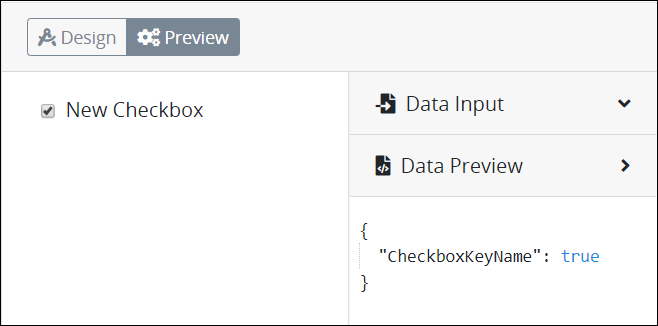
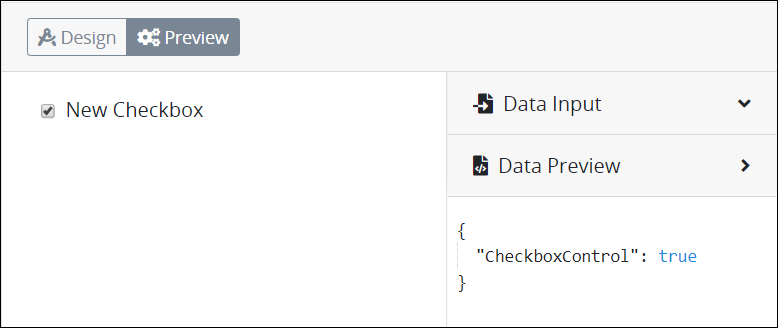
GitBook: [processmaker] 12 pages and 2 assets modified

diff --git a/designing-processes/design-forms/screens-builder/control-descriptions/record-list-control-settings.md b/designing-processes/design-forms/screens-builder/control-descriptions/record-list-control-settings.md
@@ -99,23 +99,14 @@ Click the control to view its settings in the **Variable** panel that is on the 
 
 * **Key Name:** Enter a unique name that represents this control's value. Use the **Key Name** value in the following ways:
 
-  * Reference this control by its **Key Name** setting's value. The **Data Preview** panel in [Preview mode](../screens-builder-modes.md#preview-mode) corresponds the Record List control's records with that Record List control's **Key Name** value.
-  * Reference this control's value in a different Screens Builder control. To do so, use mustache syntax and reference this control's **Key Name** value in the target control. Example: `My full name is {{FullName}}`.
+  * Reference this control by its **Key Name** setting's value.
+  * Reference this control's value in a different Screens Builder control. To do so, use mustache syntax and reference this control's **Key Name** value in the target control. Example: `{{RecordListControl}}`.
   * Reference this value in [**Visibility Rule** setting expressions](expression-syntax-components-for-show-if-control-settings.md).
 
   This is a required setting.
 
-* **Data Type:** Select one of the following options to indicate the data type for the contents of this this control:
-
-### Design Panel Settings
-
-Click the control to view its settings in the **Design** panel that is on the right-side of the Screens Builder canvas. Below are settings for the Record List control in the **Variable** panel:
-
-* **List Name:** Enter the unique internal data name of the control that only the Process Owner views at design time. This is a required setting. Use the **List Name** value for this control to reference it in [**Visibility Rule** setting expressions](expression-syntax-components-for-show-if-control-settings.md).
-* **List Label:** Enter the field label text that displays. **New Record List** is the default value.
 * **Editable?:** Select to indicate that the record that the form user enters can be edited. Otherwise, deselect to indicate that the form user's record cannot be changed. This setting is not selected by default.
-* **Fields List:** Specify the list of options the Record List records from the form user. Each option in the **Fields List** setting references a control on a secondary ProcessMaker Screen page that uses the same **Field Name** value as entered into the **Value** parameter. These values must match for the Record List control to correspond with each control in the secondary ProcessMaker Screen page. See the [example](record-list-control-settings.md#example). The following message displays in Preview mode when not all the **Value** parameters match with a control's **Field Name** value on the secondary page: **There is no records in this list or the data is invalid.**
-
+* **Fields List:** Specify the list of options the Record List records from the form user. Each option in the **Fields List** setting references a control on a secondary ProcessMaker Screen page that uses the same **Field Name** value as entered into the **Value** parameter. These values must match for the Record List control to correspond with each control in the secondary ProcessMaker Screen page. See the [example](record-list-control-settings.md#example). The following message displays in Preview mode when not all the **Value** parameters match with a control's **Field Name** value on the secondary page: **There is no records in this list or the data is invalid.**  
   Switch the **Show in Json Format** toggle key to display these settings in JSON.   
 
   ![](../../../../.gitbook/assets/fields-list-option-record-list-control-screens-builder-processes.png)
@@ -137,6 +128,12 @@ Click the control to view its settings in the **Design** panel that is on the ri
   4. Click **OK**. The field item displays below the existing items in **Fields List**.
 
 * **Record Form:** Select from which ProcessMaker Screen page to add/edit records. The page that records the submitted records cannot be on the same page as the Record List control. The following message displays in Preview mode when the Record List control references the same page the control is placed: **The add/edit form referencing our own form which is not allowed.**
+
+### Design Panel Settings
+
+Click the control to view its settings in the **Design** panel that is on the right-side of the Screens Builder canvas. Below are settings for the Record List control in the **Variable** panel:
+
+* **List Label:** Enter the field label text that displays. **New Record List** is the default value.
 * **Element Background Color:** Select to specify the background color of this control.
 * **Text Color:** Select to specify the text color that displays in this control.
 * **Visibility Rule:** Specify an expression that indicates the condition\(s\) under which this control displays. See [Expression Syntax Components for "Visibility Rule" Control Settings](expression-syntax-components-for-show-if-control-settings.md#expression-syntax-components-for-show-if-control-settings). If this setting does not have an expression, then this control displays by default.

diff --git a/designing-processes/design-forms/screens-builder/control-descriptions/submit-button-control-settings.md b/designing-processes/design-forms/screens-builder/control-descriptions/submit-button-control-settings.md
@@ -61,18 +61,28 @@ Your user account or group membership must have the following permissions to edi
 See the ProcessMaker [Screens](../../../../processmaker-administration/permission-descriptions-for-users-and-groups.md#screens) permissions or ask your ProcessMaker Administrator for assistance.
 {% endhint %}
 
-Click the control to view its settings in the **Design** panel that is on the right-side of the Screens Builder canvas. Below are settings for the Submit control:
+The Submit control has the following panels that contain settings:
 
-* **Field Label:** Enter the field label text that displays. **New Submit** is the default value.
-* **Variable Name:** Enter a unique name that represents this control's value. Use the **Variable Name** value in the following ways:
+* \*\*\*\*[**Variable** panel](submit-button-control-settings.md#variable-panel-settings)
+* \*\*\*\*[**Design** panel](submit-button-control-settings.md#design-panel-settings)
 
-  * Reference this control by its **Variable Name** setting's value.
-  * Reference this control's value in a different Screens Builder control. To do so, use mustache syntax and reference this control's **Variable Name** value in the target control. Example: `My full name is {{FullName}}`.
+### Variable Panel Settings
+
+Click the control to view its settings in the **Variable** panel that is on the right-side of the Screens Builder canvas. Below are settings for the Submit control in the **Variable** panel:
+
+* **Key Name:** Enter a unique name that represents this control's value. Use the **Key Name** value in the following ways:
+  * Reference this control by its **Key Name** setting's value. The **Data Preview** panel in [Preview mode](../screens-builder-modes.md#preview-mode) corresponds the Submit control's **Key Name** value. In the example below, `SubmitControl` is the **Key Name** setting's value when the button is clicked. ![](../../../../.gitbook/assets/submit-preview-screens-builder-processes.png) 
+  * Reference this control's value in a different Screens Builder control. To do so, use mustache syntax and reference this control's **Key Name** value in the target control. Example: `{{SubmitControl}}`.
   * Reference this value in [**Visibility Rule** setting expressions](expression-syntax-components-for-show-if-control-settings.md).
 
-  This is a required setting.
+    This is a required setting.
+* **Field Value:** Enter any alphanumeric value that the Submit control sends when the form user selects the button. This value can be evaluated in a [**Visibility Rule** setting expression](expression-syntax-components-for-show-if-control-settings.md) or in a [Sequence Flow element's conditions to trigger](../../../process-design/model-your-process/the-quick-toolbar.md#configure-an-outgoing-sequence-flow-element-from-an-exclusive-gateway-or-inclusive-gateway-element).
 
-* **Field Value:** Enter any alphanumeric value that the Submit control sends when the form user selects the button. This value can be evaluated in a rule.
+### Design Panel Settings
+
+Click the control to view its settings in the **Design** panel that is on the right-side of the Screens Builder canvas. Below are settings for the Submit control in the **Design** panel:
+
+* **Field Label:** Enter the field label text that displays. **New Submit** is the default value.
 * **Variant:** Select the style for the Submit control. The style changes the control's appearance but otherwise has no functional difference. Select from the following options:
   * **Primary:** Blue-colored background with white-colored **Field Label** text. Set as the default.
   * **Secondary:** Gray-colored background with white-colored **Field Label** text.

diff --git a/designing-processes/design-forms/screens-builder/control-descriptions/image-control-settings.md b/designing-processes/design-forms/screens-builder/control-descriptions/image-control-settings.md
@@ -55,10 +55,29 @@ Your user account or group membership must have the following permissions to edi
 See the ProcessMaker [Screens](../../../../processmaker-administration/permission-descriptions-for-users-and-groups.md#screens) permissions or ask your ProcessMaker Administrator for assistance.
 {% endhint %}
 
-Click the control to view its settings in the **Design** panel that is on the right-side of the Screens Builder canvas. Below are settings for the Image control:
+The Image control has the following panels that contain settings:
 
+* \*\*\*\*[**Variable** panel](image-control-settings.md#variable-panel-settings)
+* \*\*\*\*[**Design** panel](image-control-settings.md#design-panel-settings)
+
+### Variable Panel Settings
+
+Click the control to view its settings in the **Variable** panel that is on the right-side of the Screens Builder canvas. Below are settings for the Image control in the **Variable** panel:
+
+* **Id:** Enter the unique identifier that identifies the image in the ProcessMaker Screen. The **Id** value must be alphanumeric.
+* **Key Name:** Enter a unique name that represents this control's value. Use the **Key Name** value in the following ways:
+  * Reference this control by its **Key Name** setting's value.
+  * Reference this control's value in a different Screens Builder control. To do so, use mustache syntax and reference this control's **Key Name** value in the target control. Example: `{{ImageControl}}`.
+  * Reference this value in [**Visibility Rule** setting expressions](expression-syntax-components-for-show-if-control-settings.md).
+
+    This is a required setting.
 * **Upload Image:** Click the **Upload Image** button to browse for the PNG, GIF, or JPG file type image to upload to the Image control.
 * **Preview:** This setting displays a preview of the uploaded image.
+
+### Design Panel Settings
+
+Click the control to view its settings in the **Design** panel that is on the right-side of the Screens Builder canvas. Below are settings for the Image control in the **Design** panel:
+
 * **Width:** Specify the width of the uploaded image in pixels. If the **Height** setting has no value, the Image control adjust the uploaded image to the **Width** setting value.
 * **Height:** Specify the width of the uploaded image in pixels. If the **Width** setting has no value, the Image control adjust the uploaded image to the **Height** setting value.
 * **Visibility Rule:** Enter an expression that indicates the condition\(s\) under which this control displays. See [Expression Syntax Components for "Visibility Rule" Control Settings](expression-syntax-components-for-show-if-control-settings.md#expression-syntax-components-for-show-if-control-settings). If this setting does not have an expression, then this control displays by default.

diff --git a/designing-processes/design-forms/screens-builder/control-descriptions/file-download-control-settings.md b/designing-processes/design-forms/screens-builder/control-descriptions/file-download-control-settings.md
@@ -56,10 +56,22 @@ Your user account or group membership must have the following permissions to edi
 See the ProcessMaker [Screens](../../../../processmaker-administration/permission-descriptions-for-users-and-groups.md#screens) permissions or ask your ProcessMaker Administrator for assistance.
 {% endhint %}
 
-Click the control to view its settings in the **Design** panel that is on the right-side of the Screens Builder canvas. Below are settings for the File Download control:
+The File Download control has the following panels that contain settings:
+
+* \*\*\*\*[**Variable** panel](file-download-control-settings.md#variable-panel-settings)
+* \*\*\*\*[**Design** panel](file-download-control-settings.md#design-panel-settings)
+
+### Variable Panel Settings
+
+Click the control to view its settings in the **Variable** panel that is on the right-side of the Screens Builder canvas. Below are settings for the File Download control in the **Variable** panel:
+
+* **Download Name:** Enter the name associated with the downloaded file\(s\). This name can be referenced from a previous step in the Process. This setting has no default value.
+
+### Design Panel Settings
+
+Click the control to view its settings in the **Design** panel that is on the right-side of the Screens Builder canvas. Below are settings for the File Download control in the **Design** panel:
 
 * **Text Label:** Enter the field label text that displays. **New File Download** is the default value.
-* **Download Name:** Enter the name associated with the downloaded file\(s\). This name can be referenced from a previous step in the Process. This setting has no default value.
 * **Visibility Rule:** Enter an expression that indicates the condition\(s\) under which this control displays. See [Expression Syntax Components for "Visibility Rule" Control Settings](expression-syntax-components-for-show-if-control-settings.md#expression-syntax-components-for-show-if-control-settings). If this setting does not have an expression, then this control displays by default.
 * **CSS Selector Name:** Enter the value to represent this control in custom CSS syntax when in [Custom CSS](../add-custom-css-to-a-screen.md#add-custom-css-to-a-processmaker-screen) mode. As a best practice, use the same **CSS Selector Name** value on different controls of the same type to apply the same custom CSS style to all those controls.
 

diff --git a/designing-processes/design-forms/screens-builder/control-descriptions/file-upload-control-settings.md b/designing-processes/design-forms/screens-builder/control-descriptions/file-upload-control-settings.md
@@ -60,10 +60,22 @@ Your user account or group membership must have the following permissions to edi
 See the ProcessMaker [Screens](../../../../processmaker-administration/permission-descriptions-for-users-and-groups.md#screens) permissions or ask your ProcessMaker Administrator for assistance.
 {% endhint %}
 
-Click the control to view its settings in the **Design** panel that is on the right-side of the Screens Builder canvas. Below are settings for the File Upload control:
+The File Upload control has the following panels that contain settings:
+
+* \*\*\*\*[**Variable** panel](file-upload-control-settings.md#variable-panel-settings)
+* \*\*\*\*[**Design** panel](file-upload-control-settings.md#design-panel-settings)
+
+### Variable Panel Settings
+
+Click the control to view its settings in the **Variable** panel that is on the right-side of the Screens Builder canvas. Below are settings for the File Upload control in the **Variable** panel:
+
+* **Upload Name:** Enter the unique name associated with the uploaded file\(s\). This name can be referenced in a later step in the Process. This setting has no default value.
+
+### Design Panel Settings
+
+Click the control to view its settings in the **Design** panel that is on the right-side of the Screens Builder canvas. Below are settings for the File Upload control in the **Design** panel:
 
 * **Text Label:** Enter the field label text that displays. **New File Upload** is the default value.
-* **Upload Name:** Enter the unique name associated with the uploaded file\(s\). This name can be referenced in a later step in the Process. This setting has no default value.
 * **Visibility Rule:** Enter an expression that indicates the condition\(s\) under which this control displays. See [Expression Syntax Components for "Visibility Rule" Control Settings](expression-syntax-components-for-show-if-control-settings.md#expression-syntax-components-for-show-if-control-settings). If this setting does not have an expression, then this control displays by default.
 * **CSS Selector Name:** Enter the value to represent this control in custom CSS syntax when in [Custom CSS](../add-custom-css-to-a-screen.md#add-custom-css-to-a-processmaker-screen) mode. As a best practice, use the same **CSS Selector Name** value on different controls of the same type to apply the same custom CSS style to all those controls.
 

diff --git a/designing-processes/design-forms/screens-builder/control-descriptions/date-picker-control-settings.md b/designing-processes/design-forms/screens-builder/control-descriptions/date-picker-control-settings.md
@@ -72,8 +72,8 @@ Click the control to view its settings in the **Variable** panel that is on the 
 
 * **Key Name:** Enter a unique name that represents this control's value. Use the **Key Name** value in the following ways:
 
-  * Reference this control by its **Key Name** setting's value. The **Data Preview** panel in [Preview mode](../screens-builder-modes.md#preview-mode) corresponds with the Date Picker control's entered datetime with that Date Picker control's **Key Name** value. ![](../../../../.gitbook/assets/date-picker-preview-screens-builder-processes.png) 
-  * Reference this control's value in a different Screens Builder control. To do so, use mustache syntax and reference this control's **Key Name** value in the target control. Example: `My full name is {{FullName}}`.
+  * Reference this control by its **Key Name** setting's value. The **Data Preview** panel in [Preview mode](../screens-builder-modes.md#preview-mode) corresponds with the Date Picker control's entered datetime with that Date Picker control's **Key Name** value. In the example below, `DatePickerControl` is the **Key Name** setting's value. ![](../../../../.gitbook/assets/date-picker-preview-screens-builder-processes.png) 
+  * Reference this control's value in a different Screens Builder control. To do so, use mustache syntax and reference this control's **Key Name** value in the target control. Example: `{{DatePickerControl}}`.
   * Reference this value in [**Visibility Rule** setting expressions](expression-syntax-components-for-show-if-control-settings.md).
 
   This is a required setting.

diff --git a/designing-processes/design-forms/screens-builder/control-descriptions/line-input-control-settings.md b/designing-processes/design-forms/screens-builder/control-descriptions/line-input-control-settings.md
@@ -72,8 +72,8 @@ Click the control to view its settings in the **Variable** panel that is on the 
 
 * **Key Name:** Enter a unique name that represents this control's value. Use the **Key Name** value in the following ways:
 
-  * Reference this control by its **Key Name** setting's value. The **Data Preview** panel in [Preview mode](../screens-builder-modes.md#preview-mode) corresponds the Line Inputs control's textual content with that Line Inputs control's **Key Name** value. ![](../../../../.gitbook/assets/line-inputs-preview-screens-builder-processes.png) 
-  * Reference this control's value in a different Screens Builder control. To do so, use mustache syntax and reference this control's **Key Name** value in the target control. Example: `My full name is {{FullName}}`.
+  * Reference this control by its **Key Name** setting's value. The **Data Preview** panel in [Preview mode](../screens-builder-modes.md#preview-mode) corresponds the Line Inputs control's textual content with that Line Inputs control's **Key Name** value. In the example below, `LineInputsControl` is the **Key Name** setting's value. ![](../../../../.gitbook/assets/line-inputs-preview-screens-builder-processes.png) 
+  * Reference this control's value in a different Screens Builder control. To do so, use mustache syntax and reference this control's **Key Name** value in the target control. Example: `{{LineInputsControl}}`.
   * Reference this value in [**Visibility Rule** setting expressions](expression-syntax-components-for-show-if-control-settings.md).
 
   This is a required setting.

diff --git a/designing-processes/design-forms/screens-builder/control-descriptions/radio-group-control-settings.md b/designing-processes/design-forms/screens-builder/control-descriptions/radio-group-control-settings.md
@@ -72,8 +72,8 @@ Click the control to view its settings in the **Variable** panel that is on the 
 
 * **Key Name:** Enter a unique name that represents this control's value. Use the **Key Name** value in the following ways:
 
-  * Reference this control by its **Key Name** setting's value. The **Data Preview** panel in [Preview mode](../screens-builder-modes.md#preview-mode) corresponds the Radio Group control's selected option with that Radio Group control's **Key Name** value. ![](../../../../.gitbook/assets/radio-group-preview-screens-builder-processes.png) 
-  * Reference this control's value in a different Screens Builder control. To do so, use mustache syntax and reference this control's **Key Name** value in the target control. Example: `My full name is {{FullName}}`.
+  * Reference this control by its **Key Name** setting's value. The **Data Preview** panel in [Preview mode](../screens-builder-modes.md#preview-mode) corresponds the Radio Group control's selected option with that Radio Group control's **Key Name** value. In the example below, `RadioGroupControl` is the **Key Name** setting's value. ![](../../../../.gitbook/assets/radio-group-preview-screens-builder-processes.png) 
+  * Reference this control's value in a different Screens Builder control. To do so, use mustache syntax and reference this control's **Key Name** value in the target control. Example: `{{RadioGroupControl}}`.
   * Reference this value in [**Visibility Rule** setting expressions](expression-syntax-components-for-show-if-control-settings.md).
 
   This is a required setting.

diff --git a/designing-processes/design-forms/screens-builder/control-descriptions/textarea-control-settings.md b/designing-processes/design-forms/screens-builder/control-descriptions/textarea-control-settings.md
@@ -72,8 +72,8 @@ Click the control to view its settings in the **Variable** panel that is on the 
 
 * **Key Name:** Enter a unique name that represents this control's value. Use the **Key Name** value in the following ways:
 
-  * Reference this control by its **Key Name** setting's value. The **Data Preview** panel in [Preview mode](../screens-builder-modes.md#preview-mode) corresponds the Textarea control's textual content with that Textarea control's **Key Name** value. ![](../../../../.gitbook/assets/textarea-preview-screens-builder-processes.png) 
-  * Reference this control's value in a different Screens Builder control. To do so, use mustache syntax and reference this control's **Key Name** value in the target control. Example: `My full name is {{FullName}}`.
+  * Reference this control by its **Key Name** setting's value. The **Data Preview** panel in [Preview mode](../screens-builder-modes.md#preview-mode) corresponds the Textarea control's textual content with that Textarea control's **Key Name** value. In the example below, `TextareaControl` is the **Key Name** setting's value. ![](../../../../.gitbook/assets/textarea-preview-screens-builder-processes.png) 
+  * Reference this control's value in a different Screens Builder control. To do so, use mustache syntax and reference this control's **Key Name** value in the target control. Example: `{{TextareaControl}}`.
   * Reference this value in [**Visibility Rule** setting expressions](expression-syntax-components-for-show-if-control-settings.md).
 
   This is a required setting.

diff --git a/designing-processes/design-forms/screens-builder/control-descriptions/select-control-settings.md b/designing-processes/design-forms/screens-builder/control-descriptions/select-control-settings.md
@@ -70,8 +70,8 @@ Click the control to view its settings in the **Variable** panel that is on the 
 
 * **Key Name:** Enter a unique name that represents this control's value. Use the **Key Name** value in the following ways:
 
-  * Reference this control by its **Key Name** setting's value. The **Data Preview** panel in [Preview mode](../screens-builder-modes.md#preview-mode) corresponds the Select control's selected option with that Select control's **Key Name** value. ![](../../../../.gitbook/assets/select-preview-screens-builder-processes.png) 
-  * Reference this control's value in a different Screens Builder control. To do so, use mustache syntax and reference this control's **Key Name** value in the target control. Example: `My full name is {{FullName}}`.
+  * Reference this control by its **Key Name** setting's value. The **Data Preview** panel in [Preview mode](../screens-builder-modes.md#preview-mode) corresponds the Select control's selected option with that Select control's **Key Name** value. In the example below, `SelectControl` is the **Key Name** setting's value. ![](../../../../.gitbook/assets/select-preview-screens-builder-processes.png) 
+  * Reference this control's value in a different Screens Builder control. To do so, use mustache syntax and reference this control's **Key Name** value in the target control. Example: `{{SelectControl}}`.
   * Reference this value in [**Visibility Rule** setting expressions](expression-syntax-components-for-show-if-control-settings.md).
 
   This is a required setting.

diff --git a/designing-processes/design-forms/screens-builder/control-descriptions/checkbox-control-settings.md b/designing-processes/design-forms/screens-builder/control-descriptions/checkbox-control-settings.md
@@ -75,7 +75,7 @@ Click the control to view its settings in the **Variable** panel that is on the 
   * Reference this control by its **Variable Name** setting's value. The **Data Preview** panel in [Preview mode](../screens-builder-modes.md#preview-mode) represents the state of the Checkbox control using its **Key Name** value in the Request's JSON data model in the following ways:
     * **The Checkbox control is selected:** The key's value is `true` \(shown below\).
     * **The Checkbox control is deselected:** They key's value is `false`. ![](../../../../.gitbook/assets/checkbox-preview-screens-builder-processes.png) 
-  * Reference this control's value in a different Screens Builder control. To do so, use mustache syntax and reference this control's **Variable Name** value in the target control. Example: `My full name is {{FullName}}`.
+  * Reference this control's value in a different Screens Builder control. To do so, use mustache syntax and reference this control's **Variable Name** value in the target control. Example: `{{CheckboxControl}}`.
   * Reference this value in [**Visibility Rule** setting expressions](expression-syntax-components-for-show-if-control-settings.md).
 
   This is a required setting.

diff --git a/designing-processes/design-forms/screens-builder/control-descriptions/multi-column-button-control-settings.md b/designing-processes/design-forms/screens-builder/control-descriptions/multi-column-button-control-settings.md
@@ -74,7 +74,7 @@ Click the control to view its settings in the **Variable** panel that is on the 
 
   * **Column:** **Column** is the internal designation for the column that only the Process Owner views at design time.
   * **Colspan:** **Colspan** is the width of the column in `colspan` HTML attribute settings.
-  * **Actions:** Click the Remove![](../../../../.gitbook/assets/options-list-delete-option-icon-screens-builder-processes.png)icon to remove the column.
+  * **Remove:** Click the Remove![](../../../../.gitbook/assets/options-list-delete-option-icon-screens-builder-processes.png)icon to remove the column.
 
   Follow these steps to add a column and specify its width: 
 
